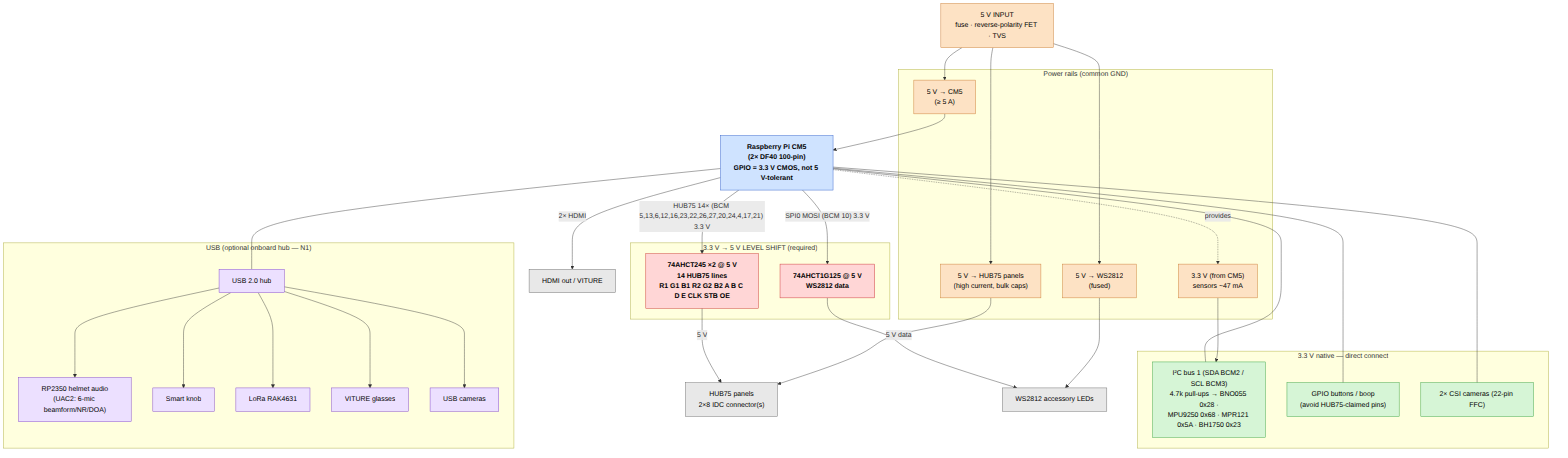
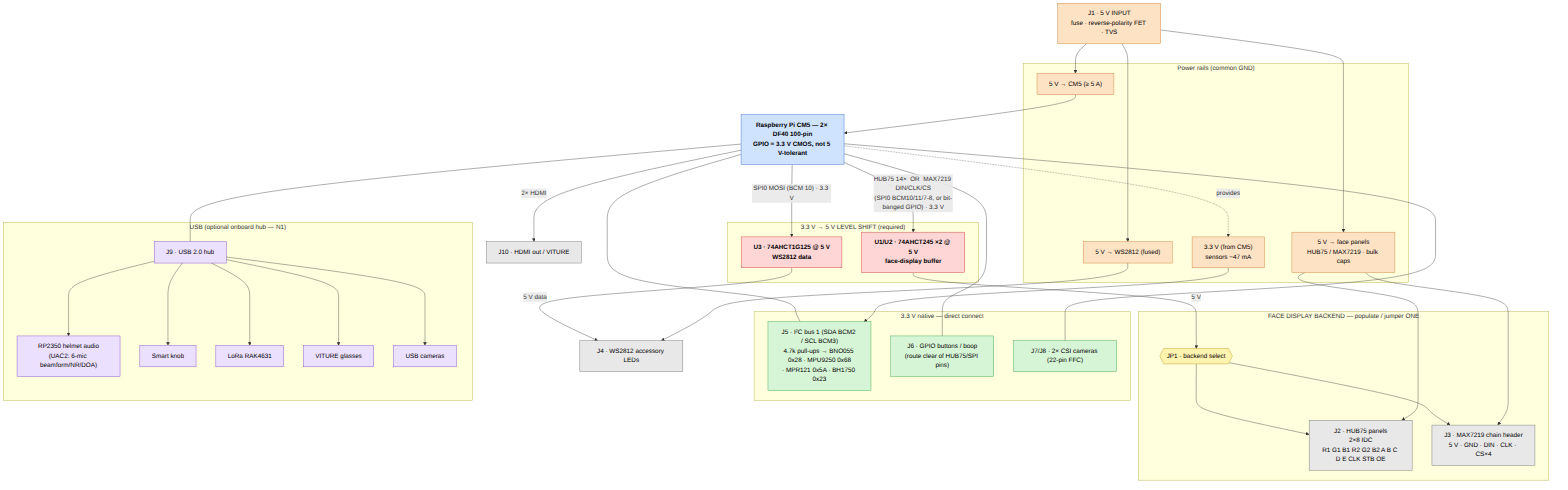
docs(carrier-board): refine diagram + add MAX7219 face-backend headers
- Reframe the face display as a 'pick one' backend: HUB75 (J2) or
  MAX7219 chain (J3), both fed through the shared 74AHCT245 buffer with
  a JP1 backend-select jumper.
- Add MAX7219 header (5V/GND/DIN/CLK/CS x4) and document both transports
  (hardware SPI0 BCM10/11/7-8, or bit-banged GPIO) per max7219_chain.h,
  plus the BCM10/MOSI sharing caveat with WS2812.
- Add connector designators (J1-J10, JP1) and a connector schedule table.
- Reflect MAX7219 in REQUIREMENTS (M3.4/M3.5) and BOM (J3 header +
  backend-select jumper); renumber BOM rows.
- Re-render block-diagram.png.

diff --git a/hardware/carrier-board/BLOCK-DIAGRAM.md b/hardware/carrier-board/BLOCK-DIAGRAM.md
@@ -4,47 +4,61 @@ System-level block diagram for the ProtoHUD CM5 carrier. Voltage domains and the
 **3.3 V → 5 V level-shifting boundary** are called out explicitly — that
 boundary is the whole reason the carrier exists (see [`README.md`](README.md)).
 
-Pin references match the firmware (`src/main.cpp` `kHub75`, I²C bus 1, WS2812 on
-SPI0 MOSI / BCM 10).
+The **face display backend is "pick one"**: either **HUB75** panels *or* a
+**MAX7219** 8×8-matrix chain (`src/face/max7219_chain.h`). Both are 5 V-logic
+and share the same 3.3 V → 5 V buffer; a jumper selects which connector is
+driven. Pin references match the firmware (`src/main.cpp` `kHub75`, MAX7219
+SPI0 / GPIO transports, I²C bus 1, WS2812 on SPI0 MOSI / BCM 10).
 
 ```mermaid
 flowchart TB
-    PWR["5 V INPUT<br/>fuse · reverse-polarity FET · TVS"]:::pwr
+    J1["J1 · 5 V INPUT<br/>fuse · reverse-polarity FET · TVS"]:::pwr
 
     subgraph RAILS["Power rails (common GND)"]
         direction LR
-        R5C["5 V → CM5<br/>(≥ 5 A)"]:::pwr
-        R5H["5 V → HUB75 panels<br/>(high current, bulk caps)"]:::pwr
-        R5L["5 V → WS2812<br/>(fused)"]:::pwr
+        R5C["5 V → CM5 (≥ 5 A)"]:::pwr
+        R5F["5 V → face panels<br/>HUB75 / MAX7219 · bulk caps"]:::pwr
+        R5L["5 V → WS2812 (fused)"]:::pwr
         R33["3.3 V (from CM5)<br/>sensors ~47 mA"]:::pwr
     end
-    PWR --> R5C & R5H & R5L
+    J1 --> R5C & R5F & R5L
     R5C --> CM5
 
-    CM5["Raspberry Pi CM5<br/>(2× DF40 100-pin)<br/>GPIO = 3.3 V CMOS, not 5 V-tolerant"]:::cm5
+    CM5["Raspberry Pi CM5 — 2× DF40 100-pin<br/>GPIO = 3.3 V CMOS, not 5 V-tolerant"]:::cm5
     CM5 -. provides .-> R33
 
-    %% ---- 5 V-logic loads: MUST be level-shifted ----
+    %% ================= 3.3 V → 5 V level-shift boundary =================
     subgraph SHIFT["3.3 V → 5 V LEVEL SHIFT (required)"]
         direction TB
-        U245["74AHCT245 ×2 @ 5 V<br/>14 HUB75 lines<br/>R1 G1 B1 R2 G2 B2 A B C D E CLK STB OE"]:::shift
-        U125["74AHCT1G125 @ 5 V<br/>WS2812 data"]:::shift
+        FBUF["U1/U2 · 74AHCT245 ×2 @ 5 V<br/>face-display buffer"]:::shift
+        LBUF["U3 · 74AHCT1G125 @ 5 V<br/>WS2812 data"]:::shift
     end
 
-    CM5 -- "HUB75 14× (BCM 5,13,6,12,16,23,22,26,27,20,24,4,17,21) 3.3 V" --> U245
-    CM5 -- "SPI0 MOSI (BCM 10) 3.3 V" --> U125
+    CM5 -- "HUB75 14×  OR  MAX7219 DIN/CLK/CS<br/>(SPI0 BCM10/11/7-8, or bit-banged GPIO) · 3.3 V" --> FBUF
+    CM5 -- "SPI0 MOSI (BCM 10) · 3.3 V" --> LBUF
 
-    U245 -- "5 V" --> HUB["HUB75 panels<br/>2×8 IDC connector(s)"]:::load
-    R5H --> HUB
-    U125 -- "5 V data" --> LED["WS2812 accessory LEDs"]:::load
+    %% ---- Face backend: pick one (jumper-selected) ----
+    subgraph FACE["FACE DISPLAY BACKEND — populate / jumper ONE"]
+        direction LR
+        JSEL{{"JP1 · backend select"}}:::sel
+        HUB["J2 · HUB75 panels<br/>2×8 IDC<br/>R1 G1 B1 R2 G2 B2 A B C D E CLK STB OE"]:::load
+        MAX["J3 · MAX7219 chain header<br/>5 V · GND · DIN · CLK · CS×4"]:::load
+    end
+    FBUF -- "5 V" --> JSEL
+    JSEL --> HUB
+    JSEL --> MAX
+    R5F --> HUB
+    R5F --> MAX
+
+    LBUF -- "5 V data" --> LED["J4 · WS2812 accessory LEDs"]:::load
     R5L --> LED
 
     %% ---- 3.3 V-native: direct connect ----
     subgraph DIRECT["3.3 V native — direct connect"]
         direction TB
-        I2C["I²C bus 1 (SDA BCM2 / SCL BCM3)<br/>4.7k pull-ups → BNO055 0x28 ·<br/>MPU9250 0x68 · MPR121 0x5A · BH1750 0x23"]:::dir
-        BTN["GPIO buttons / boop<br/>(avoid HUB75-claimed pins)"]:::dir
-        CSI["2× CSI cameras (22-pin FFC)"]:::dir
+        I2C["J5 · I²C bus 1 (SDA BCM2 / SCL BCM3)<br/>4.7k pull-ups → BNO055 0x28 · MPU9250 0x68<br/>· MPR121 0x5A · BH1750 0x23"]:::dir
+        BTN["J6 · GPIO buttons / boop<br/>(route clear of HUB75/SPI pins)"]:::dir
+        CSI["J7/J8 · 2× CSI cameras (22-pin FFC)"]:::dir
     end
     CM5 --- I2C
     CM5 --- BTN
@@ -54,7 +68,7 @@ flowchart TB
     %% ---- USB stack ----
     subgraph USB["USB (optional onboard hub — N1)"]
         direction TB
-        HUBIC["USB 2.0 hub"]:::usb
+        HUBIC["J9 · USB 2.0 hub"]:::usb
         RP2350["RP2350 helmet audio<br/>(UAC2: 6-mic beamform/NR/DOA)"]:::usb
         KNOB["Smart knob"]:::usb
         LORA["LoRa RAK4631"]:::usb
@@ -63,7 +77,7 @@ flowchart TB
         HUBIC --> RP2350 & KNOB & LORA & VIT & UCAM
     end
     CM5 --- HUBIC
-    CM5 -- "2× HDMI" --> HDMI["HDMI out / VITURE"]:::load
+    CM5 -- "2× HDMI" --> HDMI["J10 · HDMI out / VITURE"]:::load
 
     classDef pwr   fill:#fde2c4,stroke:#c9772a,color:#000;
     classDef cm5   fill:#cfe3ff,stroke:#2a5bc9,color:#000,font-weight:bold;
@@ -71,6 +85,7 @@ flowchart TB
     classDef load  fill:#e8e8e8,stroke:#666,color:#000;
     classDef dir   fill:#d6f5d6,stroke:#2a9d3a,color:#000;
     classDef usb   fill:#ece0ff,stroke:#7a3ac9,color:#000;
+    classDef sel   fill:#fff3b0,stroke:#b59000,color:#000;
 ```
 
 ## Legend
@@ -80,10 +95,39 @@ flowchart TB
 | 🟧 Orange | Power rail / protection |
 | 🟦 Blue | CM5 compute module (3.3 V GPIO source) |
 | 🟥 Red | **3.3 V → 5 V level shifter — required** |
+| 🟨 Yellow | Jumper / backend select |
 | ⬜ Grey | 5 V-logic load (panels, LEDs, HDMI) |
 | 🟩 Green | 3.3 V-native peripheral — direct connect, no shifter |
 | 🟪 Purple | USB peripheral (behind optional hub) |
 
-The red blocks are the critical path: every signal crossing into a grey HUB75 /
-WS2812 load goes through a 5 V buffer. Everything green wires straight to the
-CM5 at 3.3 V.
+## Connector schedule
+
+| Ref | Connector | Signals | Domain |
+|-----|-----------|---------|--------|
+| J1 | 5 V input | 5 V, GND (protected) | 5 V in |
+| **J2** | **HUB75 face** (2×8 IDC) | R1 G1 B1 R2 G2 B2 A B C D E CLK STB OE + 5 V/GND | 5 V (buffered) |
+| **J3** | **MAX7219 face** | 5 V, GND, **DIN, CLK, CS×4** | 5 V (buffered) |
+| J4 | WS2812 LEDs | 5 V, GND, DIN (buffered) | 5 V |
+| J5 | I²C bus 1 | SDA, SCL, 3.3 V, GND | 3.3 V |
+| J6 | GPIO buttons / boop | GPIO×n, 3.3 V, GND | 3.3 V |
+| J7/J8 | CSI cameras | 22-pin 0.5 mm FFC | MIPI |
+| J9 | USB (hub uplink) | USB 2.0 → RP2350 audio / knob / LoRa / VITURE / cams | USB |
+| J10 | HDMI | 2× HDMI out | — |
+| JP1 | Backend select | routes face buffer → J2 **or** J3 | — |
+
+### MAX7219 backend notes (`src/face/max7219_chain.h`)
+
+- **Transport A — hardware SPI0 (`spidev0.x`, default):** DIN = MOSI (BCM 10),
+  CLK = SCLK (BCM 11), CS = CE0/CE1 (BCM 8 / BCM 7). Two hardware CS lines →
+  up to two chains this way.
+- **Transport B — bit-banged GPIO** (`Max7219GpioBus`): one shared DIN + CLK on
+  any two GPIOs, plus one CS GPIO **per chain** (up to 4 broken out at J3).
+  Used when SPI0 is taken by WS2812 / SPI1 by HUB75.
+- MAX7219 VCC = 5 V → input-high ≈ 3.5 V, so DIN/CLK/CS **must be buffered to
+  5 V** through the same `74AHCT245` (U1/U2). All three are CM5 → driver
+  (unidirectional); the chain's DOUT daisies to the next module, not back to
+  the CM5, so no down-shift is needed.
+- ⚠️ **BCM 10 (MOSI) is shared** by WS2812 *and* MAX7219-over-SPI0 — they can't
+  both use SPI0 at once. Use the MAX7219 GPIO transport (or move WS2812 to
+  SPI1) if running both; JP1 + the firmware backend select keep it to one face
+  path at a time.

diff --git a/hardware/carrier-board/BOM.md b/hardware/carrier-board/BOM.md
@@ -28,63 +28,65 @@ with the default sensor set.
 | 10 | Fuse, WS2812 rail | per LED count | 1 | M2.4 | |
 | 11 | Decoupling caps (assorted) | 0.1 µF / 1 µF / 10 µF | many | M1.2 | Per CM5 design guide |
 
-## HUB75 level shifting (critical)
+## Face backend level shifting (critical) — HUB75 **or** MAX7219
 
 | # | Part | Example P/N | Qty | Req | Notes |
 |---|------|-------------|-----|-----|-------|
-| 12 | Octal buffer, **AHCT** | SN74AHCT245PWR | 2 | M3.1 | 5 V VCC, 3.3 V TTL in → 5 V out. **Not** HC. |
-| 13 | HUB75 IDC header, 2×8 shrouded | 2.54 mm boxed | 1–4 | M3.2 | One per chain |
+| 12 | Octal buffer, **AHCT** | SN74AHCT245PWR | 2 | M3.1 | 5 V VCC, 3.3 V TTL in → 5 V out. **Not** HC. Shared by HUB75/MAX7219. |
+| 13 | HUB75 IDC header, 2×8 shrouded | 2.54 mm boxed | 1–4 | M3.2 | J2 · one per chain |
 | 14 | Series resistors (CLK/data) | 33 Ω 0603 | ~14 | M3.3 | Optional-fit footprints |
 | 15 | Buffer decoupling | 0.1 µF 0603 | 2 | M3.1 | One per '245 |
+| 16 | **MAX7219 chain header** | keyed, 5 V/GND/DIN/CLK/CS×4 | 1 | M3.4 | J3 · alternative face backend |
+| 17 | Backend-select jumper | 2.54 mm jumper / 0 Ω | 1 | M3.5/N11 | JP1 · routes buffer → HUB75 or MAX7219; SPI0-MOSI share guard |
 
 ## WS2812 accessory LEDs
 
 | # | Part | Example P/N | Qty | Req | Notes |
 |---|------|-------------|-----|-----|-------|
-| 16 | Single-gate buffer (3.3→5) | SN74AHCT1G125 | 1 | M4.1 | Or reuse a '245 channel |
-| 17 | LED power+data connector | JST (keyed) | 1 | M4.1/2 | 5 V, GND, DIN |
+| 18 | Single-gate buffer (3.3→5) | SN74AHCT1G125 | 1 | M4.1 | Or reuse a '245 channel |
+| 19 | LED power+data connector | JST (keyed) | 1 | M4.1/2 | 5 V, GND, DIN |
 
 ## I²C sensors
 
 | # | Part | Example P/N | Qty | Req | Notes |
 |---|------|-------------|-----|-----|-------|
-| 18 | I²C pull-up resistors | 4.7 kΩ 0603 | 2 | M5.1 | SDA/SCL → 3.3 V |
-| 19 | Sensor connectors | keyed 4-pin (or STEMMA QT) | 4 | M5.2 | BNO055/MPU9250/MPR121/BH1750 |
+| 20 | I²C pull-up resistors | 4.7 kΩ 0603 | 2 | M5.1 | SDA/SCL → 3.3 V |
+| 21 | Sensor connectors | keyed 4-pin (or STEMMA QT) | 4 | M5.2 | BNO055/MPU9250/MPR121/BH1750 |
 
 ## GPIO / buttons
 
 | # | Part | Example P/N | Qty | Req | Notes |
 |---|------|-------------|-----|-----|-------|
-| 20 | Button series resistors | 330 Ω–1 kΩ 0603 | per pin | M6.1 | |
-| 21 | ESD diode array (optional) | e.g. USBLC6 / TVS array | as needed | M6.1 | Boop/button lines |
-| 22 | Button/boop connectors | keyed | as needed | M6.1 | Avoid HUB75-claimed BCM lines |
+| 22 | Button series resistors | 330 Ω–1 kΩ 0603 | per pin | M6.1 | |
+| 23 | ESD diode array (optional) | e.g. USBLC6 / TVS array | as needed | M6.1 | Boop/button lines |
+| 24 | Button/boop connectors | keyed | as needed | M6.1 | Avoid HUB75-claimed BCM lines |
 
 ## Cameras / USB / provisioning
 
 | # | Part | Example P/N | Qty | Req | Notes |
 |---|------|-------------|-----|-----|-------|
-| 23 | CSI FFC connector, 22-pin 0.5 mm | flip-lock | 2 | M7.1 | Two CSI eyes |
-| 24 | USB host connectors / headers | USB-A / JST | as needed | M8.1 | RP2350 audio, knob, LoRa, VITURE, USB cams |
-| 25 | nRPIBOOT jumper + USB port | header + micro/USB-C | 1 | M9.1 | eMMC flashing |
+| 25 | CSI FFC connector, 22-pin 0.5 mm | flip-lock | 2 | M7.1 | Two CSI eyes |
+| 26 | USB host connectors / headers | USB-A / JST | as needed | M8.1 | RP2350 audio, knob, LoRa, VITURE, USB cams |
+| 27 | nRPIBOOT jumper + USB port | header + micro/USB-C | 1 | M9.1 | eMMC flashing |
 
 ## Nice-to-have add-ons
 
 | # | Part | Example P/N | Qty | Req | Notes |
 |---|------|-------------|-----|-----|-------|
-| 26 | USB 2.0 hub controller | USB2514B / USB2517 | 1 | N1 | Consolidate USB peripherals |
-| 27 | Current-sense monitors | INA219 / INA260 | 1–4 | N2 | Per-rail telemetry to HUD |
-| 28 | e-Fuse | TPS259x | 1–4 | N3 | Latch-off short protection |
-| 29 | RTC coin-cell holder + cell | CR1220 + holder | 1 | N4 | CM5 onboard RTC backup |
-| 30 | PWM fan header (4-pin) | 2.54 mm | 1 | N5 | Active cooling |
-| 31 | Diagnostic LEDs + resistors | 0603 LED + R | several | N6 | Power-good / heartbeat |
-| 32 | STEMMA QT / Qwiic connectors | JST-SH 1 mm | as needed | N8 | Solderless sensors |
-| 33 | Test points | loop / pad | many | N9 | Rails + CLK/LAT/OE/SDA/SCL |
-| 34 | HDMI connectors + ESD | micro/full HDMI, ESD array | 1–2 | N10 | CM5 dual HDMI / VITURE |
+| 28 | USB 2.0 hub controller | USB2514B / USB2517 | 1 | N1 | Consolidate USB peripherals |
+| 29 | Current-sense monitors | INA219 / INA260 | 1–4 | N2 | Per-rail telemetry to HUD |
+| 30 | e-Fuse | TPS259x | 1–4 | N3 | Latch-off short protection |
+| 31 | RTC coin-cell holder + cell | CR1220 + holder | 1 | N4 | CM5 onboard RTC backup |
+| 32 | PWM fan header (4-pin) | 2.54 mm | 1 | N5 | Active cooling |
+| 33 | Diagnostic LEDs + resistors | 0603 LED + R | several | N6 | Power-good / heartbeat |
+| 34 | STEMMA QT / Qwiic connectors | JST-SH 1 mm | as needed | N8 | Solderless sensors |
+| 35 | Test points | loop / pad | many | N9 | Rails + CLK/LAT/OE/SDA/SCL |
+| 36 | HDMI connectors + ESD | micro/full HDMI, ESD array | 1–2 | N10 | CM5 dual HDMI / VITURE |
 
 ---
 
 ### Not on this board
 6× **ICS-43434 / INMP441** mics and the audio DSP live on the **RP2350 helmet
-audio board**, which connects to the carrier as a **USB UAC2** device (item 24).
+audio board**, which connects to the carrier as a **USB UAC2** device (item 26).
 See [`../../firmware/teensy_audio/README.md`](../../firmware/teensy_audio/README.md)
 and the audio section of the top-level `README.md`.

diff --git a/hardware/carrier-board/REQUIREMENTS.md b/hardware/carrier-board/REQUIREMENTS.md
@@ -29,14 +29,27 @@ serviceability, or telemetry but can be cut for a v1.
   see `src/main.cpp` `rail_currents_mA`). No local regulator required at the
   current load.
 
-### M3 — HUB75 (face panels) — the critical interface
+### M3 — Face display backend (HUB75 **or** MAX7219 — pick one)
+Both backends are 5 V-logic and share one 3.3 V → 5 V buffer block; a jumper
+(JP1) routes the buffered signals to whichever face connector is populated.
+
 - **R3.1** **74AHCT245** (or AHCT244/541) octal buffer(s) powered at **5 V**,
-  level-shifting all **14** HUB75 signals (R1 G1 B1 R2 G2 B2 A B C D E CLK
-  STB OE) from 3.3 V → 5 V. **Must be HCT/AHCT family** (TTL VIH ≈ 2 V), not
-  HC (which needs VIH ≈ 3.5 V at a 5 V rail and would not read 3.3 V as high).
-- **R3.2** Standard HUB75 **2×8 (16-pin) shrouded IDC** output connector(s).
+  level-shifting the face signals from 3.3 V → 5 V. **Must be HCT/AHCT family**
+  (TTL VIH ≈ 2 V), not HC (which needs VIH ≈ 3.5 V at a 5 V rail and would not
+  read 3.3 V as high).
+- **R3.2 (HUB75)** Buffer all **14** HUB75 signals (R1 G1 B1 R2 G2 B2 A B C D E
+  CLK STB OE) to a standard **2×8 (16-pin) shrouded IDC** connector (J2).
 - **R3.3** Optional series resistors (~33 Ω footprint) on CLK and high-speed
   lines to tame ringing on ribbon cables. Keep buffer-to-connector traces short.
+- **R3.4 (MAX7219)** Buffer the MAX7219 chain signals — **DIN, CLK, CS×4** —
+  to a header (J3) carrying 5 V, GND, DIN, CLK, CS1–CS4. DIN/CLK/CS are all
+  CM5 → driver (unidirectional), so the same '245 covers them; DOUT daisies
+  module-to-module and never returns to the CM5.
+- **R3.5** Source the MAX7219 signals to support **both transports**
+  (`src/face/max7219_chain.h`): hardware **SPI0** (DIN = BCM 10/MOSI, CLK =
+  BCM 11/SCLK, CS = BCM 7/8) *and* **bit-banged GPIO** (shared DIN/CLK + per-
+  chain CS). Use jumper/0 Ω selection so SPI0-MOSI isn't claimed by both WS2812
+  and MAX7219 simultaneously (see N11).
 
 ### M4 — WS2812 accessory LEDs
 - **R4.1** Level-shift the single data line (BCM 10 / SPI0 MOSI) 3.3 V → 5 V